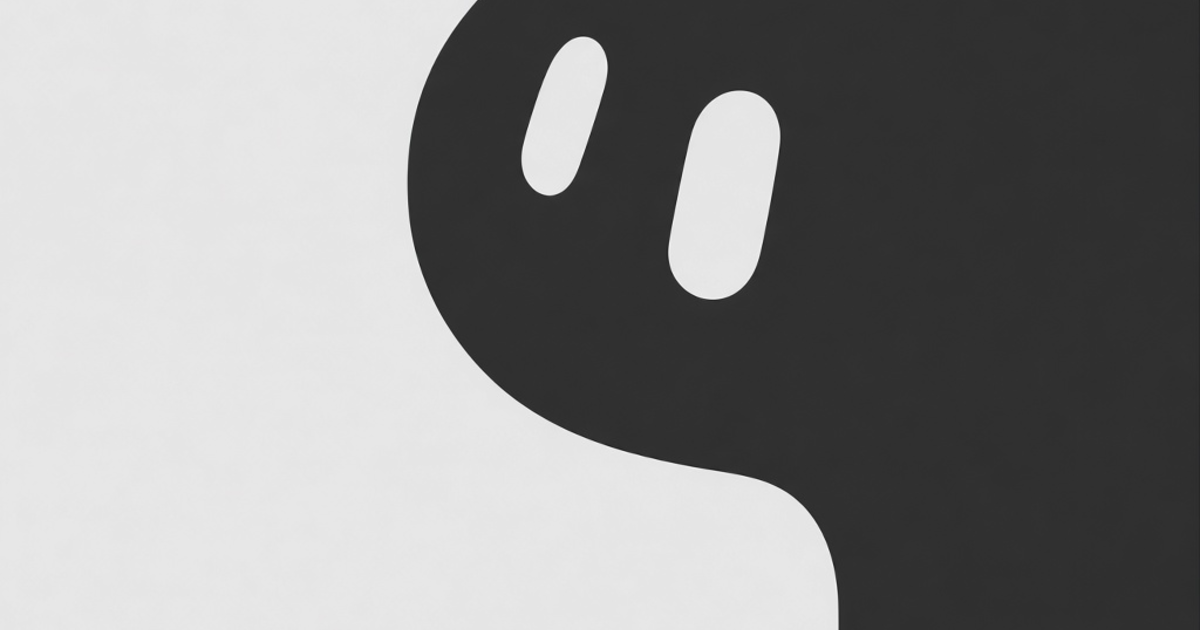
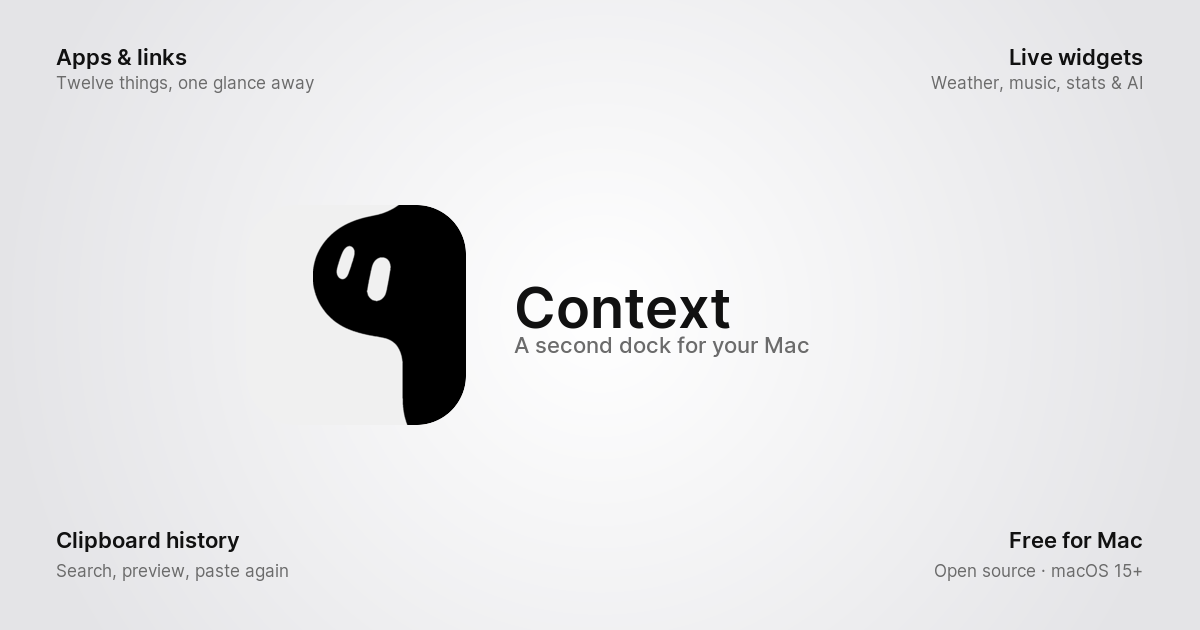
feat: add detailed Context OG image
Replace the logo crop with a corner-detail social card and a
render script so the brand mark stays easy to regenerate.

diff --git a/apps/web/index.html b/apps/web/index.html
@@ -17,9 +17,14 @@
 <meta property="og:title" content="Context — a second dock for your Mac">
 <meta property="og:description" content="Apps, links and live widgets, always one glance away.">
 <meta property="og:image" content="/og-context.png">
+<meta property="og:image:width" content="1200">
+<meta property="og:image:height" content="630">
+<meta property="og:image:alt" content="Context — a second dock for your Mac">
 <meta name="twitter:card" content="summary_large_image">
 <meta name="twitter:title" content="Context — a second dock for your Mac">
 <meta name="twitter:description" content="Apps, links and live widgets, always one glance away.">
+<meta name="twitter:image" content="/og-context.png">
+<meta name="twitter:image:alt" content="Context — a second dock for your Mac">
 <link rel="preload" href="/fonts/inter-latin.woff2" as="font" type="font/woff2" crossorigin>
 </head>
 <body>
